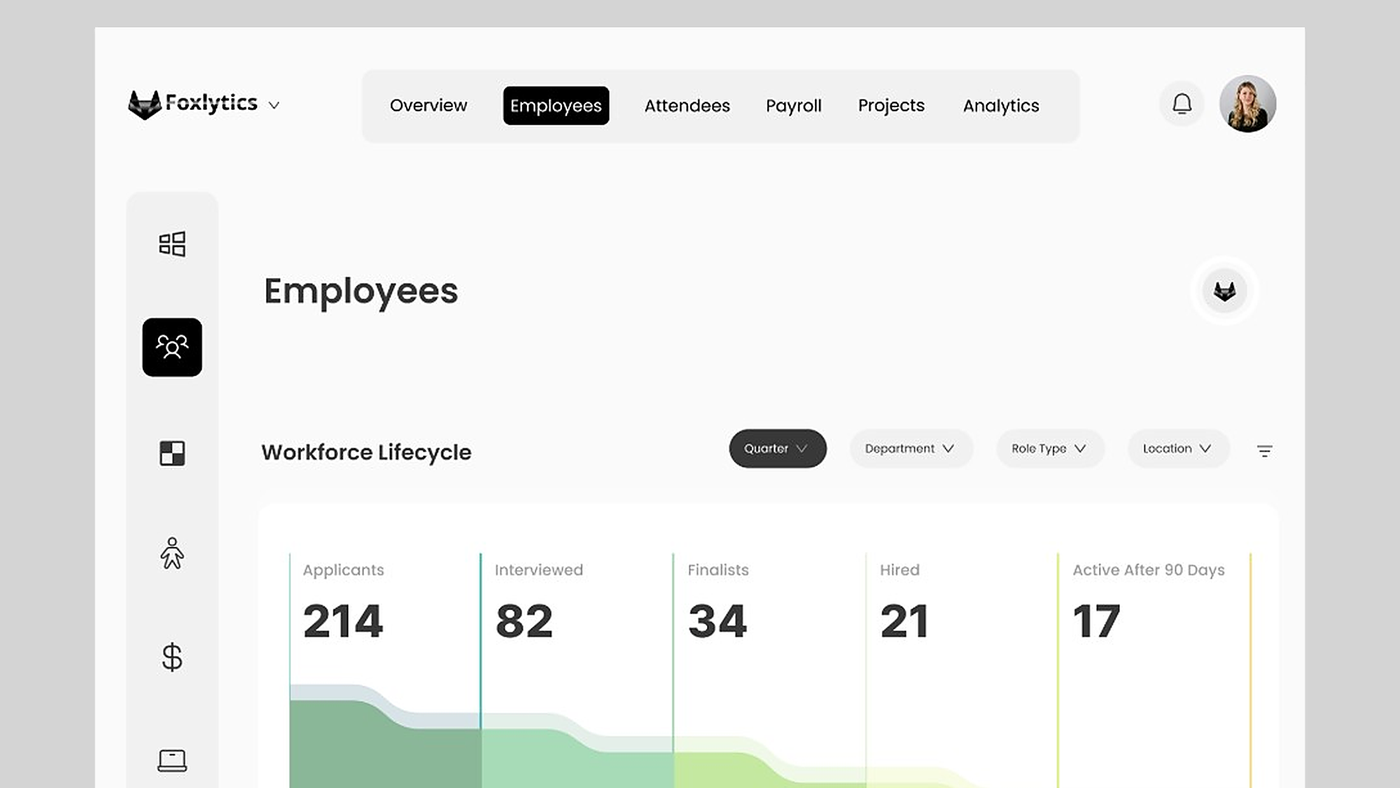
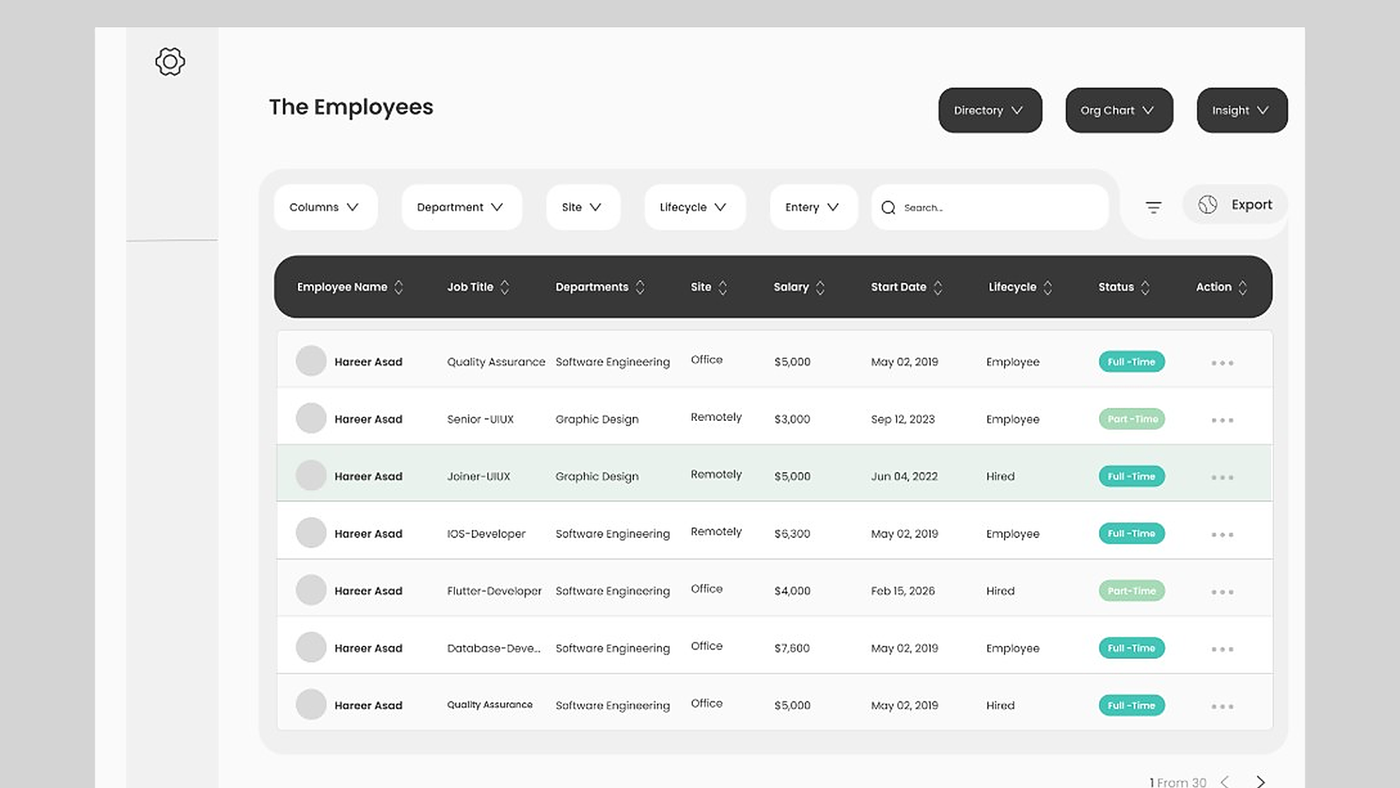
Employees single-page mockup: show the middle of the page (employee table)
Claude-Session: https://claude.ai/code/session_01FdYAnoP1AuAPuCnLWf7gdc

diff --git a/behance-cover/mockups/set16.py b/behance-cover/mockups/set16.py
@@ -1,5 +1,5 @@
 # Single wide web page on grey ("nuro single"): the page becomes the Foxlytics Employees screen from
-# its top, enlarged with Lanczos and a light unsharp mask. Upwork 4:3 (1000x750, 2000x1500 JPEG) and
+# the middle of the page (The Employees table), enlarged with Lanczos and a light unsharp mask. Upwork 4:3 (1000x750, 2000x1500 JPEG) and
 # Behance artboard (1400x788, 2800x1576).
 import numpy as np
 from PIL import Image, ImageFilter
@@ -10,7 +10,8 @@ for K in (1, 2):
     sc = base.resize((W0 * K, H0 * K), Image.LANCZOS)
     l, t, r, b = [round(v * K) for v in PAGE]
     p = Image.open(I + '181.jpg').convert('RGB'); k = (r - l) / p.width
-    p = p.resize((r - l, round(p.height * k)), Image.LANCZOS).crop((0, 0, r - l, b - t))
+    TOP = 760   # source row: start at 'The Employees' section
+    p = p.resize((r - l, round(p.height * k)), Image.LANCZOS); y = round(TOP * k); p = p.crop((0, y, r - l, y + b - t))
     p = p.filter(ImageFilter.UnsharpMask(radius=0.8 * k, percent=90, threshold=2))
     sc.paste(p, (l, t))
     W, H = sc.size; cw = round(H * 4 / 3); x0 = (W - cw) // 2
